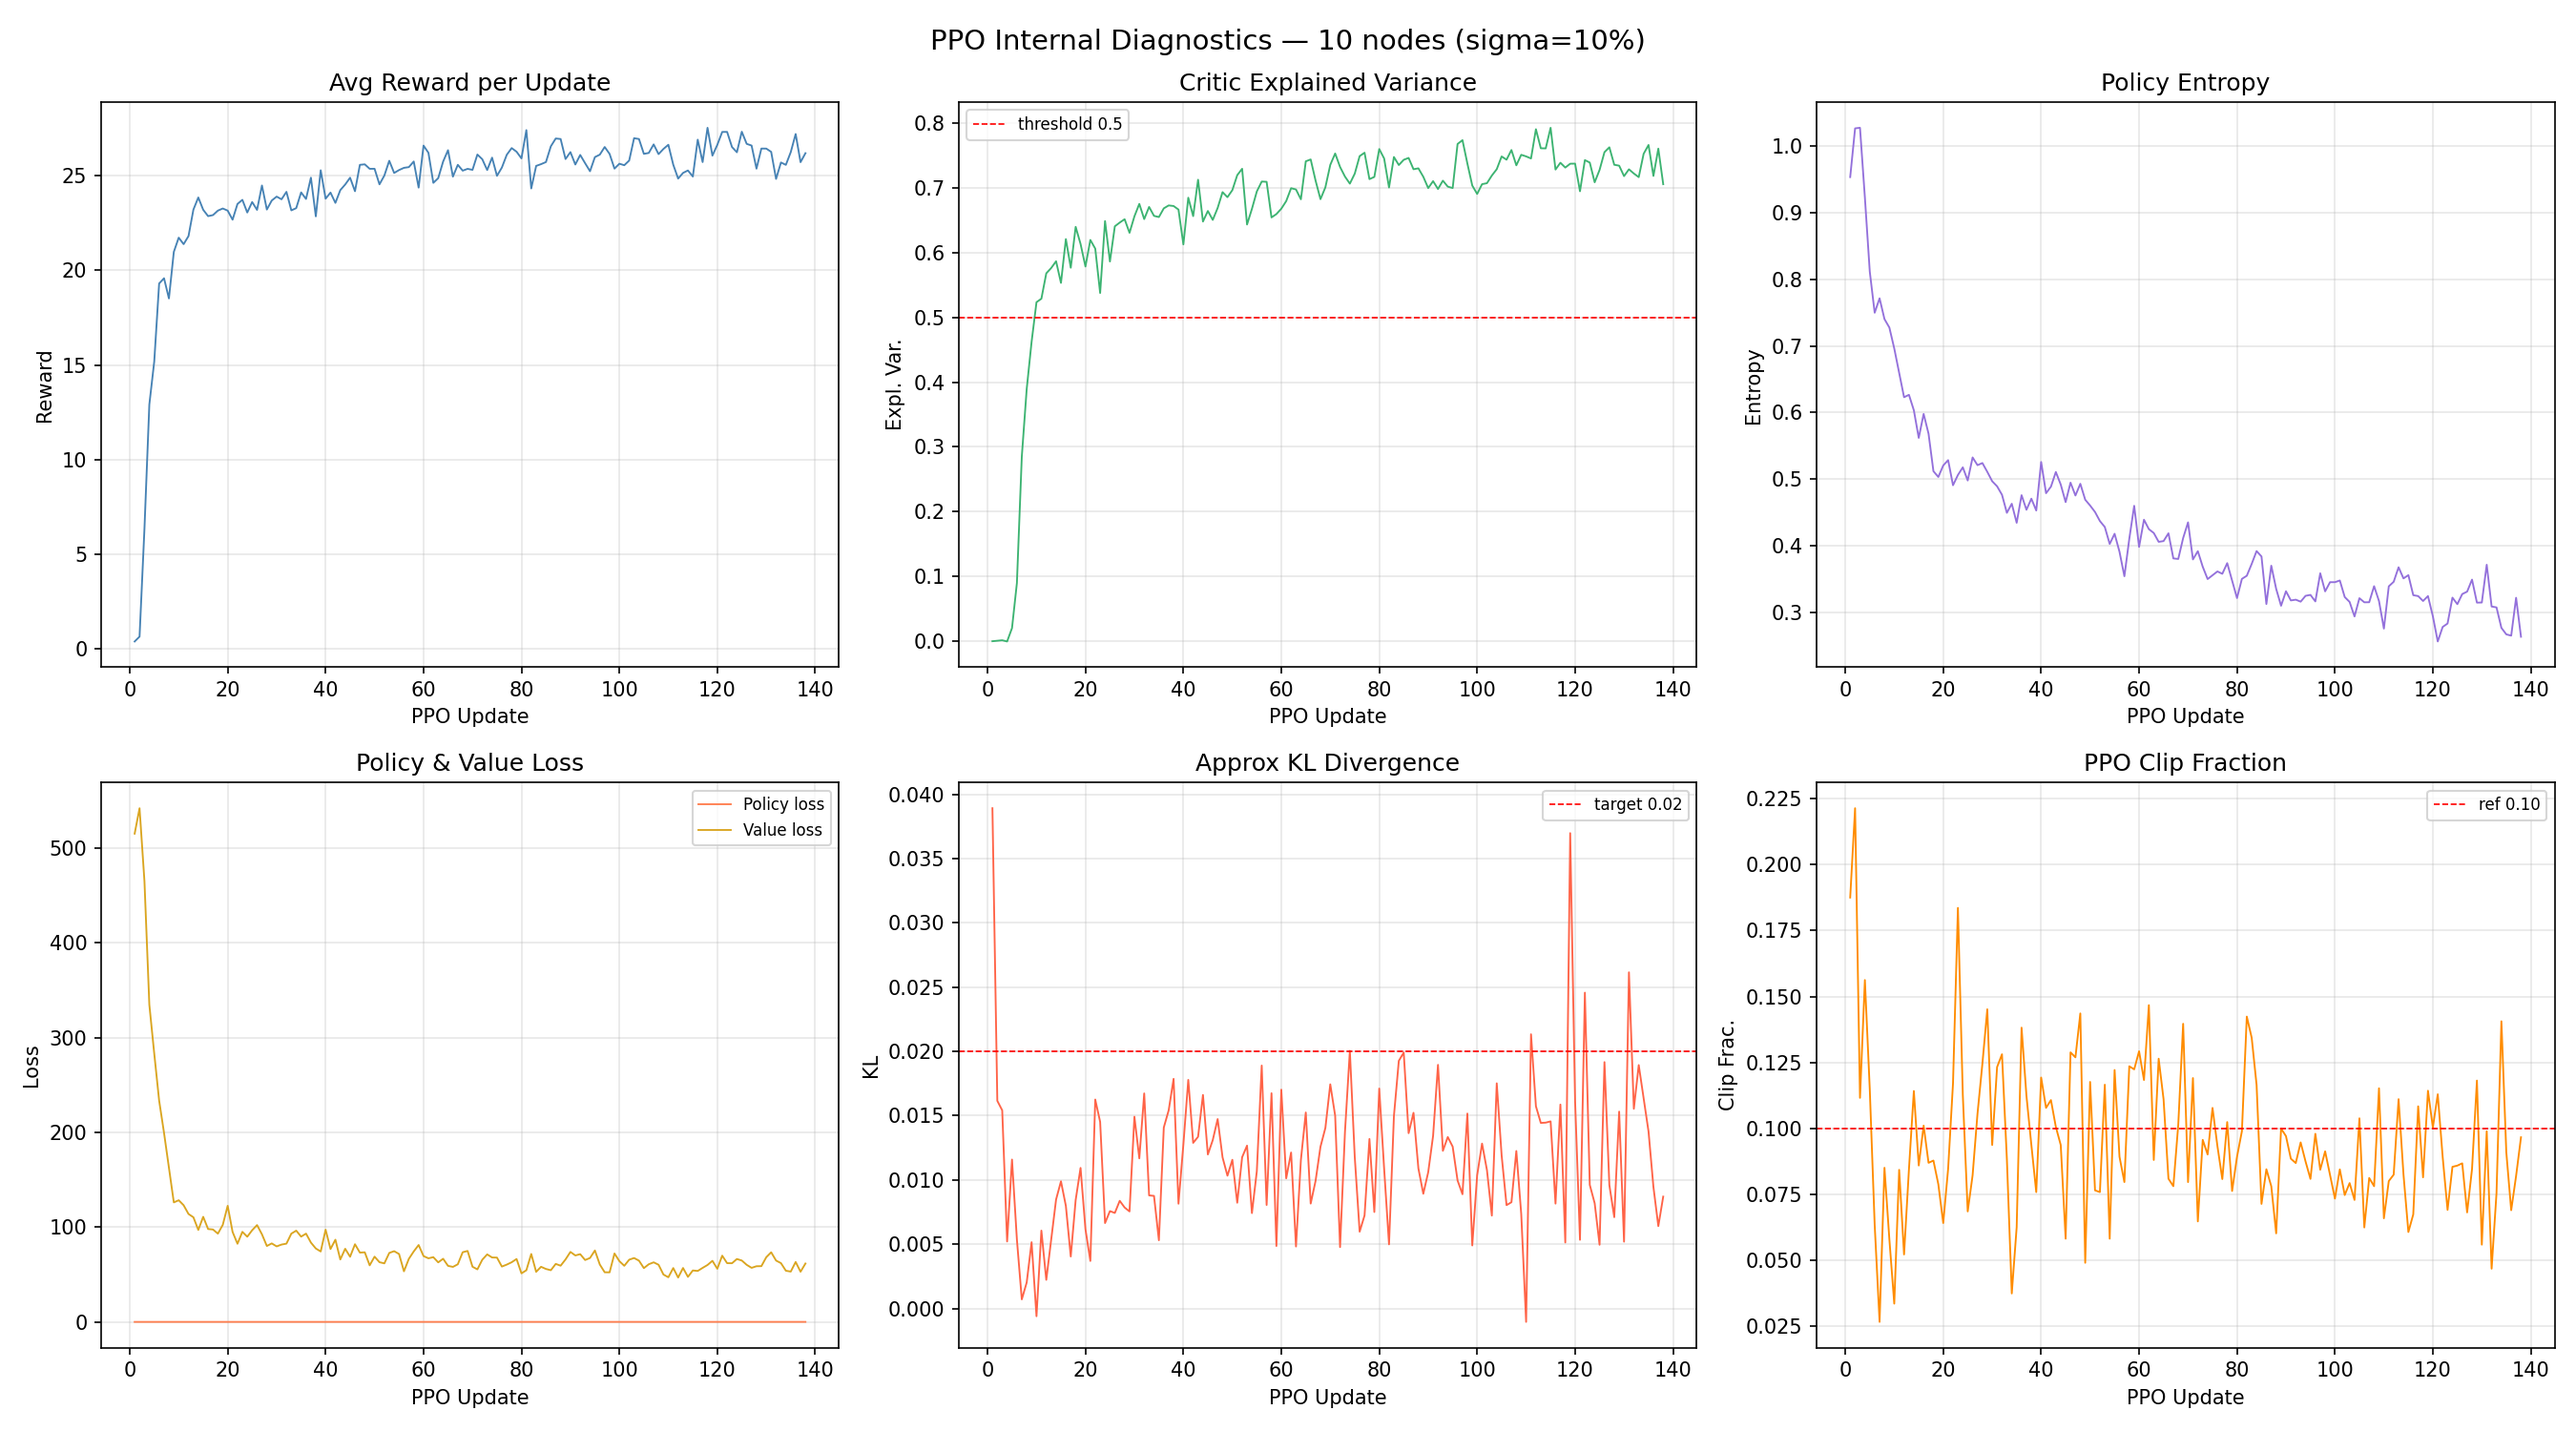
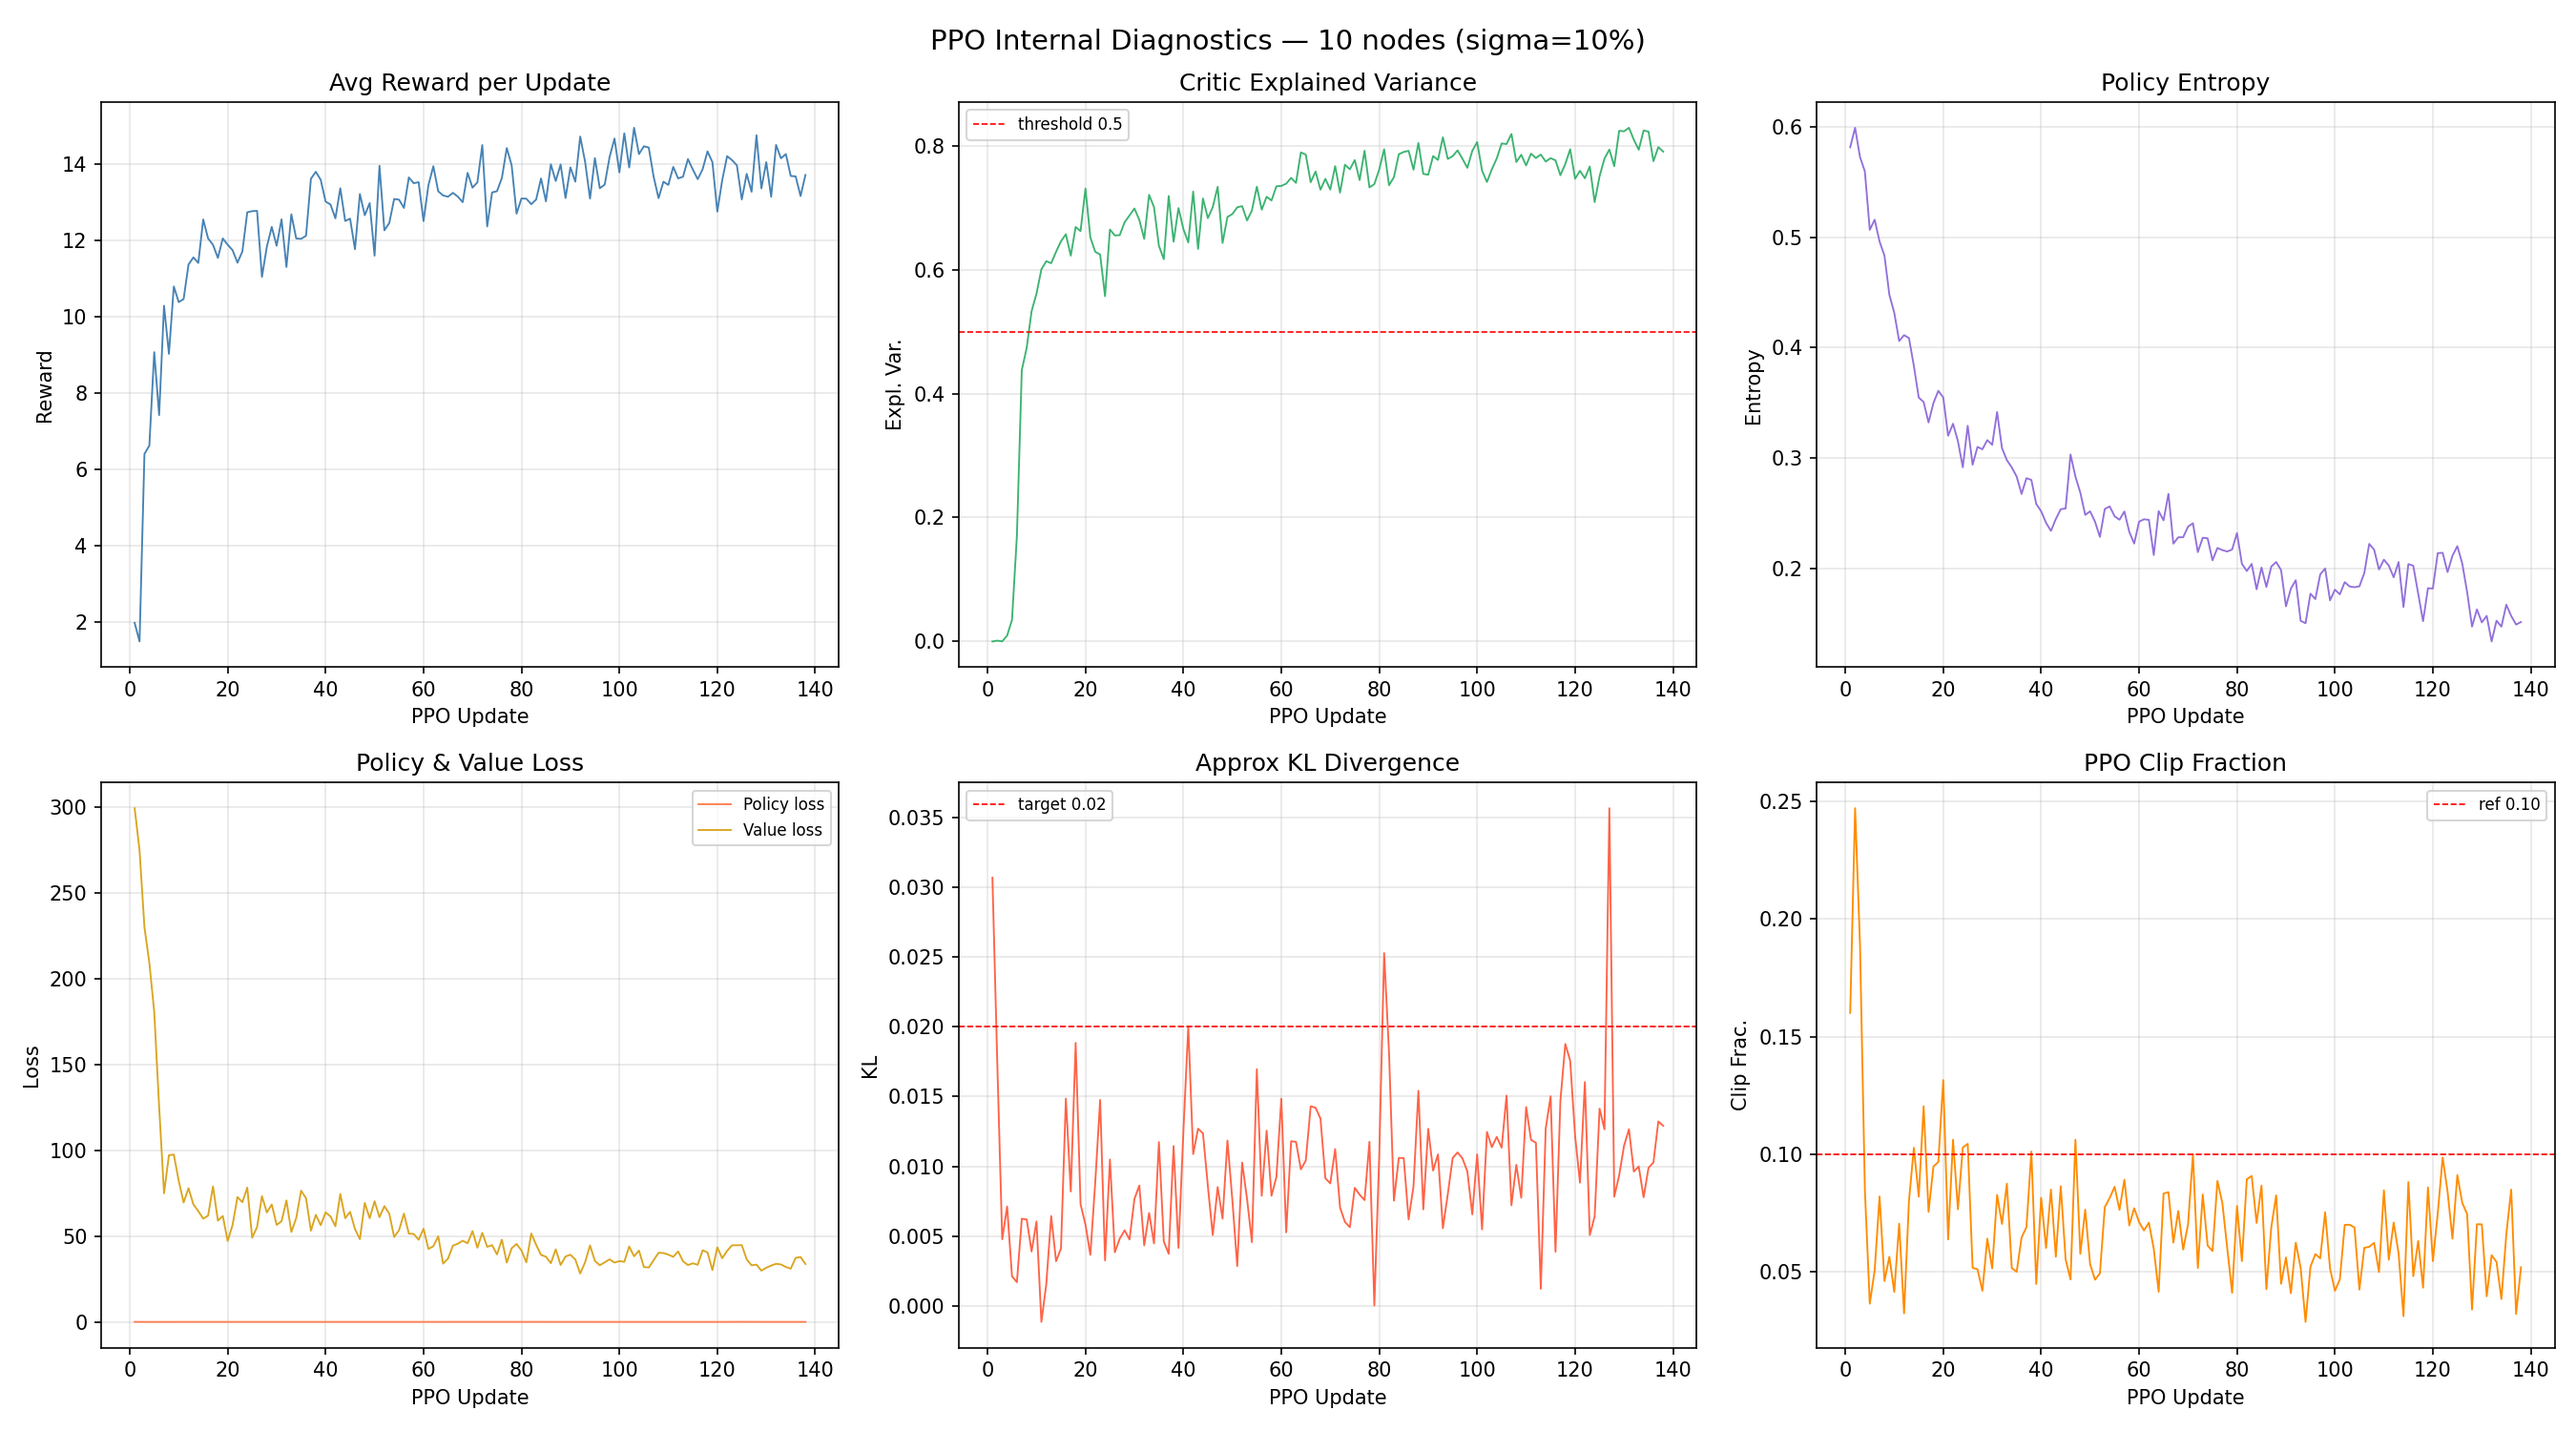
Modelo estable 10 nodos con 0.93% de GAP

diff --git a/Solvers.py b/Solvers.py
@@ -251,18 +251,20 @@ def solve_heuristic(start_node, time_m, reward_m, max_d, num_n):
     max_arcs = num_n - 1
 
     while steps < max_arcs:
-        best_reward = 0  # CAMBIO: umbral mínimo 0, no -inf
+        best_reward = -np.inf  
         best_next_node = None
 
         for next_node in range(num_n):
             if next_node != current_node and next_node not in visited:
                 step_time = time_m[current_node][next_node]
                 return_time = time_m[next_node][start_node]
-                step_reward = reward_m[current_node][next_node]
                 total_future_time = time_elapsed + step_time + return_time
-                if total_future_time <= max_d:
-                    if step_reward > best_reward:
-                        best_reward = step_reward
+                if total_future_time <= max_d:          # ← filtro de tiempo primero
+                    step_reward = reward_m[current_node][next_node]
+                    return_reward = reward_m[next_node][start_node]
+                    total_cycle_reward = step_reward + return_reward
+                    if total_cycle_reward > best_reward:
+                        best_reward = total_cycle_reward
                         best_next_node = next_node
 
         if best_next_node is not None:
@@ -447,8 +449,27 @@ def solve_LNS_metaheuristic(start_node, time_m, reward_m, max_d, num_n):
         start_node, time_m, reward_m, max_d, num_n
     )
 
-    if not is_valid:
-        return "Infeasible", None, -np.inf, np.inf
+    # Bug 3 fix: heuristic may reject all arcs (e.g. all rewards negative) and
+    # return an invalid seed. Fall back to the nearest feasible out-and-back.
+    if not is_valid or init_route == [start_node]:
+        fallback_route = None
+        fallback_reward = -np.inf
+        fallback_time = np.inf
+        for neighbor in range(num_n):
+            if neighbor == start_node:
+                continue
+            t = time_m[start_node][neighbor] + time_m[neighbor][start_node]
+            if t <= max_d:
+                r = reward_m[start_node][neighbor] + reward_m[neighbor][start_node]
+                if fallback_route is None or r > fallback_reward:
+                    fallback_route = [start_node, neighbor, start_node]
+                    fallback_reward = r
+                    fallback_time = t
+        if fallback_route is None:
+            return "Infeasible", None, -np.inf, np.inf
+        init_route = fallback_route
+        init_reward = fallback_reward
+        init_time = fallback_time
 
     best_route = init_route[:]
     best_reward = init_reward

diff --git a/problem_data.py b/problem_data.py
@@ -23,7 +23,7 @@ import pandas as pd
 from config import (
     MPG,
     STOCHASTIC_MODE, NOISE_FRACTION,
-    BIG_M_PENALTY,
+    BIG_M_PENALTY, MARGINAL_COST_SIN_DIESEL,
 )
 
 
@@ -60,7 +60,8 @@ def build_day_matrices(
     """
     revenue = (rate_day * distance_arr).copy()
     revenue[loads_day <= 1] = 0
-    cost       = distance_arr * (diesel_arr / MPG) + 163 + 1.2 * distance_arr
+    #cost       = distance_arr * (diesel_arr / MPG) + 158 + 1.2 * distance_arr
+    cost       = distance_arr * (diesel_arr / MPG) + distance_arr * MARGINAL_COST_SIN_DIESEL
     reward_arr = np.round(revenue - cost, 0)
 
     reward_matrix = pd.DataFrame(reward_arr)

diff --git a/config.py b/config.py
@@ -9,6 +9,7 @@ import torch
 
 # ── Problem identity ──────────────────────────────────────────
 MPG             = 6.5
+MARGINAL_COST_SIN_DIESEL = 1.73
 
 # ── Stochastic reward ────────────────────────────────────────
 STOCHASTIC_MODE  = True
